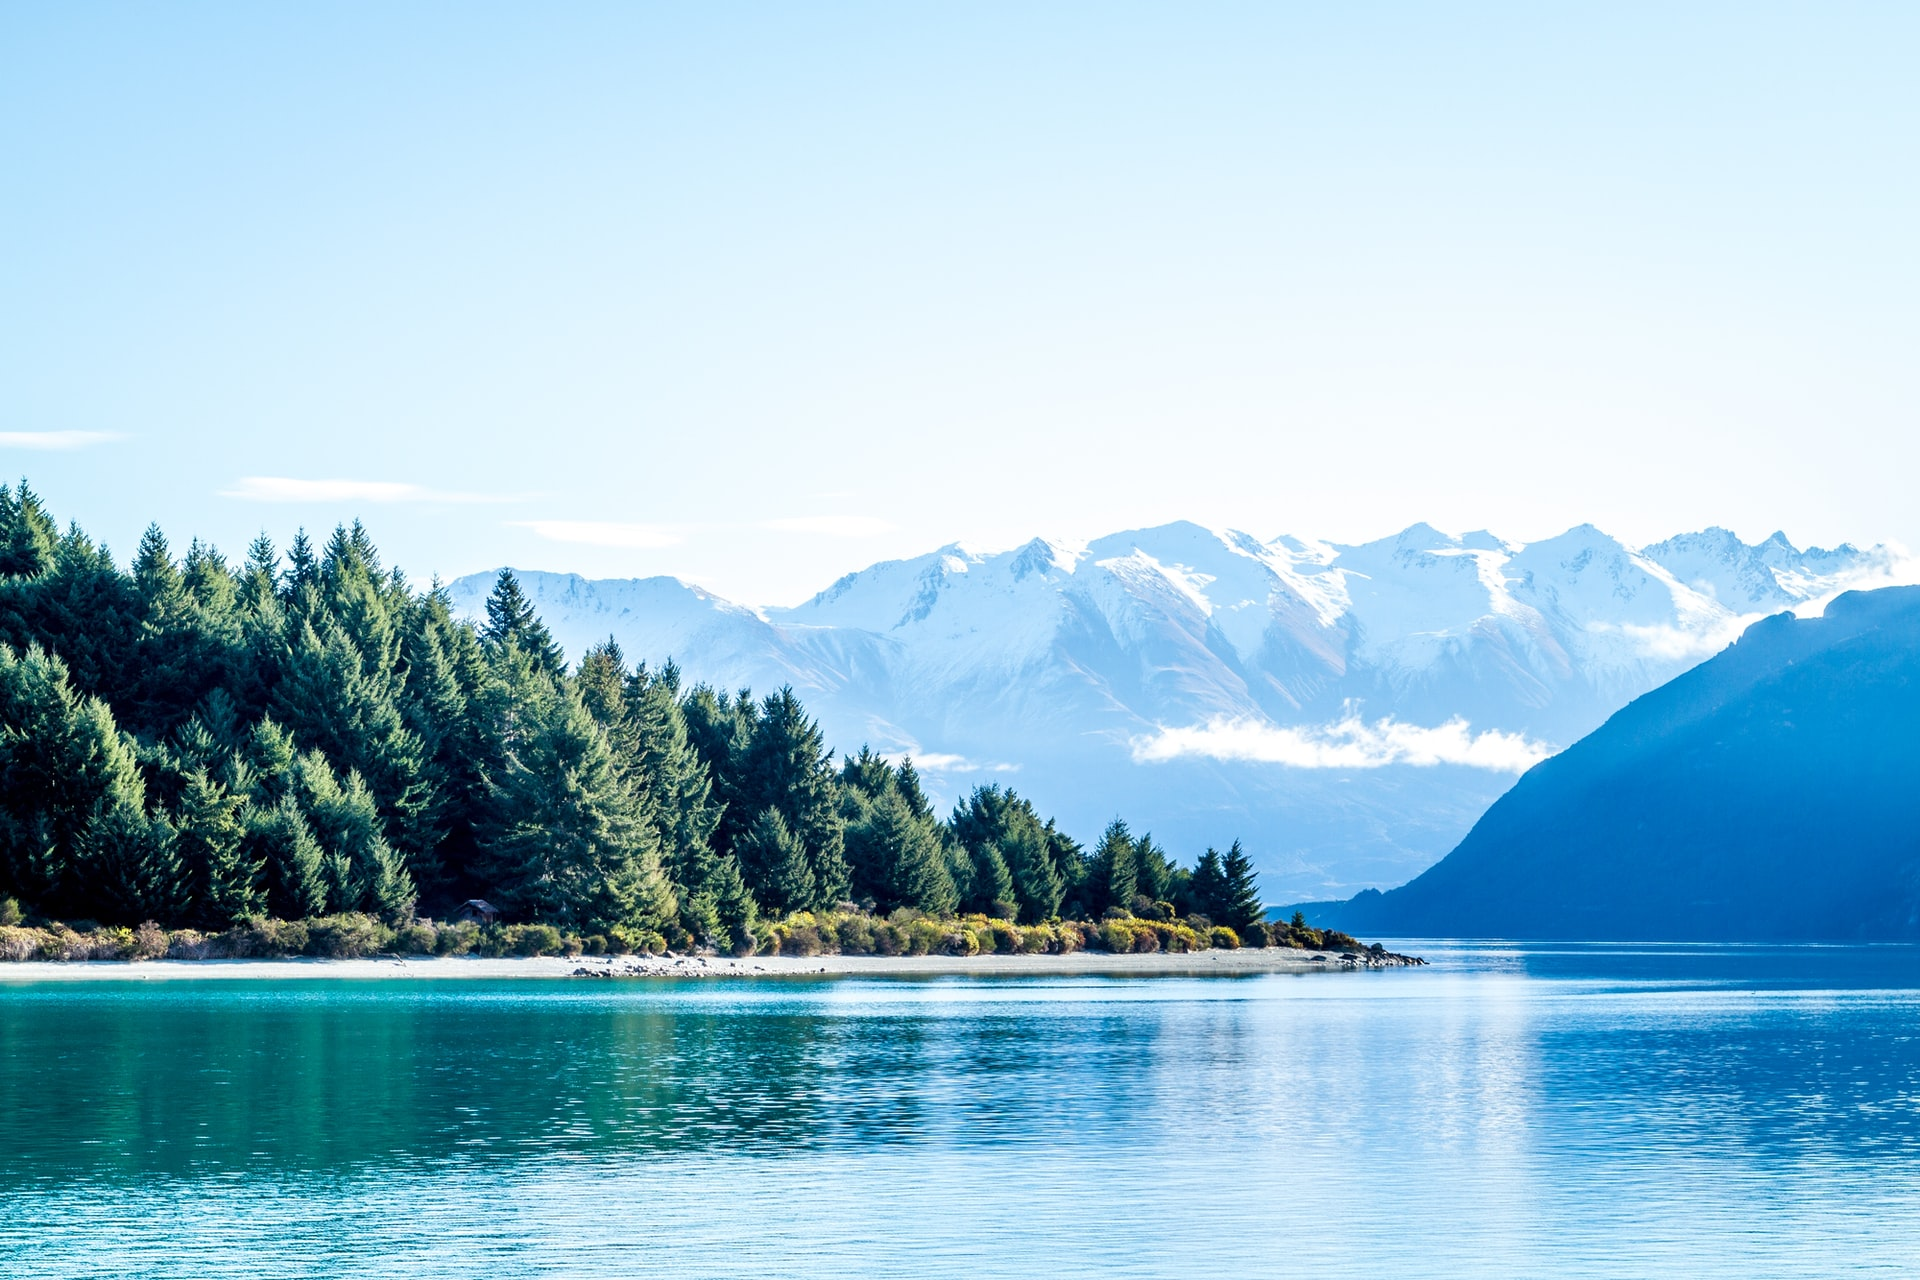
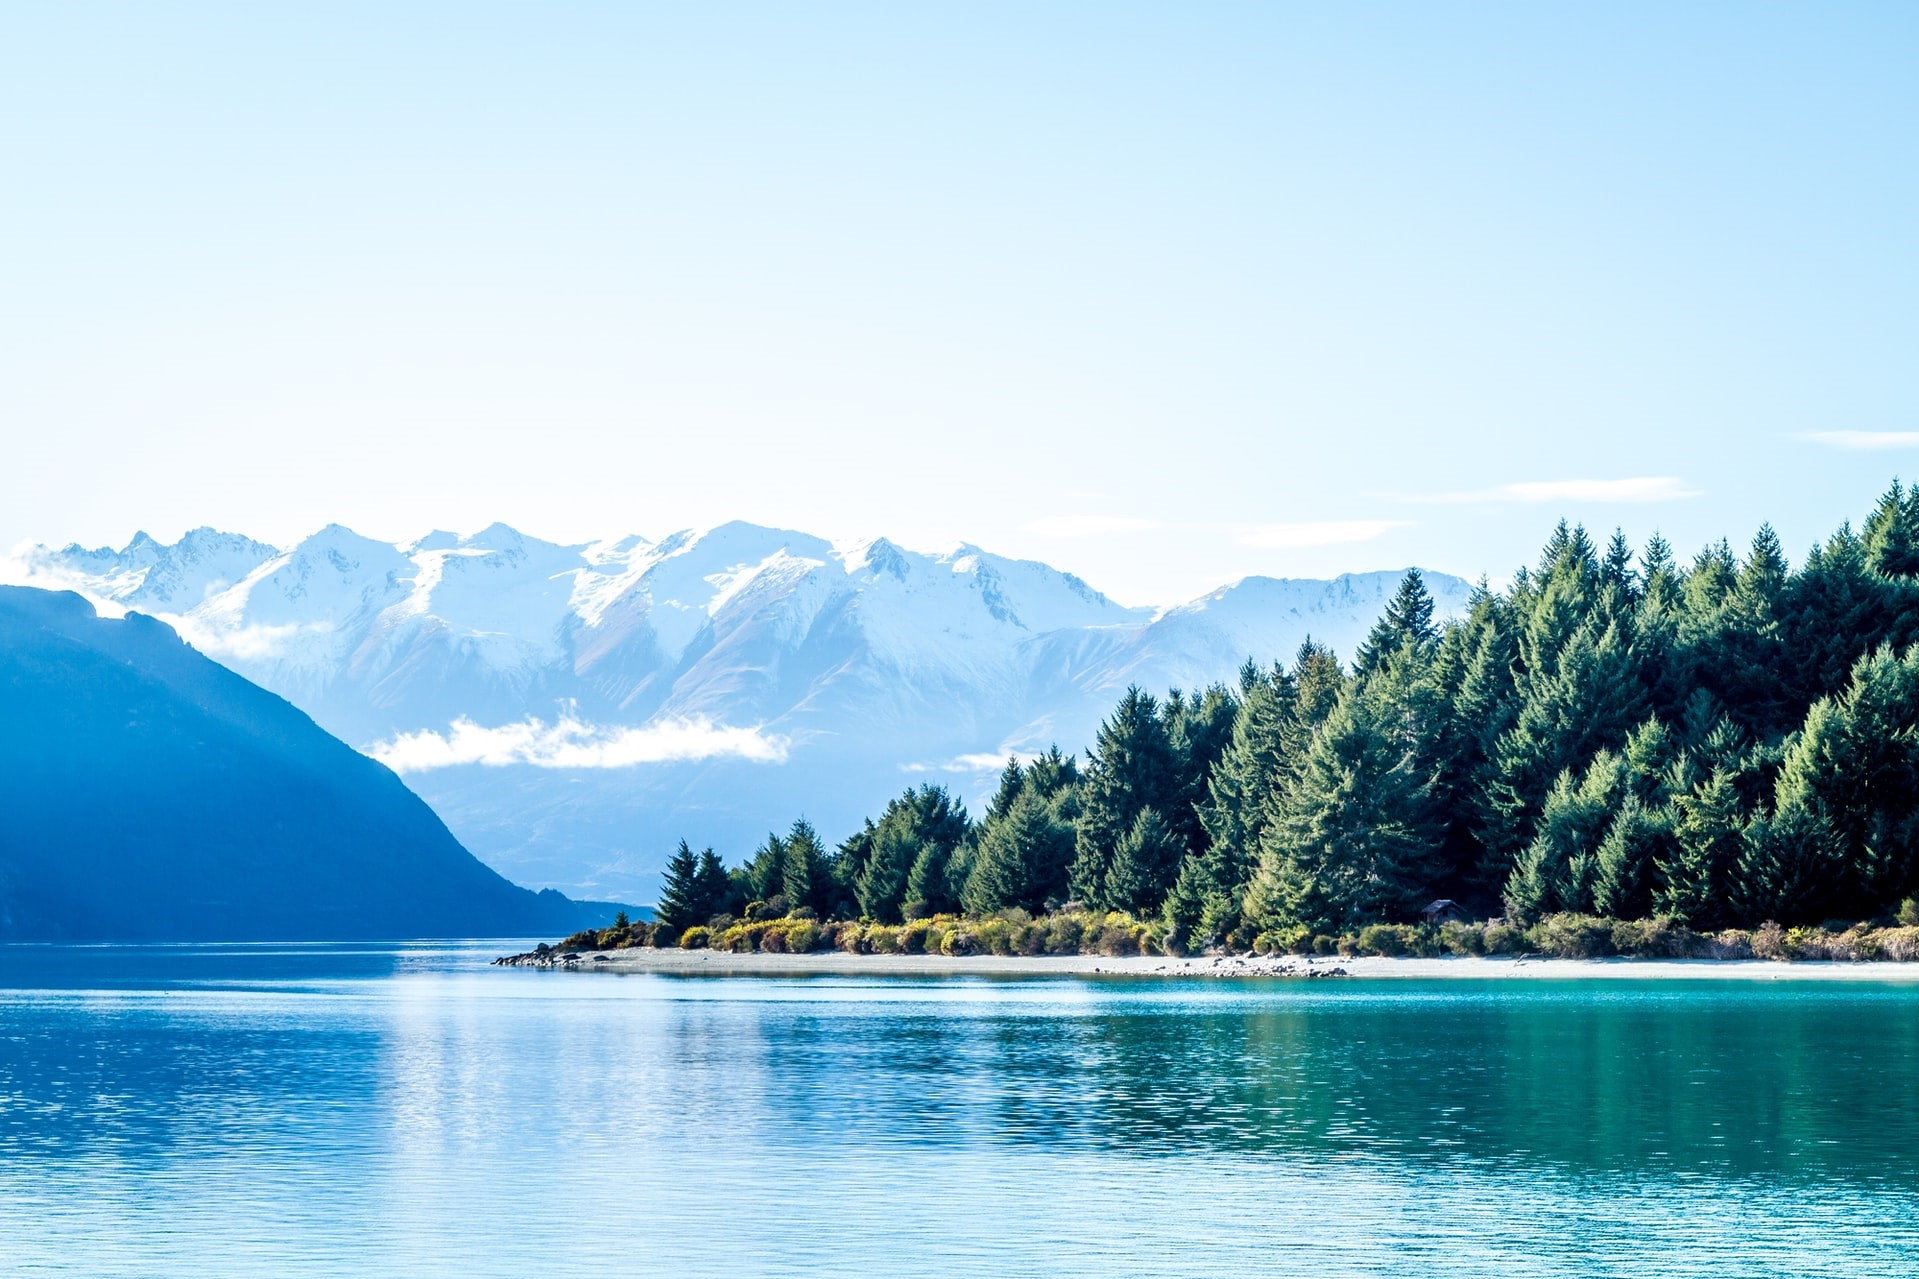
blur home info

diff --git a/css/style.css b/css/style.css
@@ -254,24 +254,27 @@ img {
 .home__container {
   background-image: url(/assets/images/bg-image-w.jpg);
   background-size: cover;
-  background-position: right top;
+  background-position: left top;
+  /* min-height: calc(100vh + var(--header-height)); */
+  min-height: 100vh;
   /* display: flex;
   flex-direction: column-reverse; */
   /* height: calc(100vh - var(--header-height)); */
-  height: 100vh;
 }
 .home__container > * {
   display: flex;
   align-items: center;
-  justify-content: flex-start;
+  justify-content: center;
   flex-direction: column;
 }
 .home__data {
-  padding-top: 25%;
+  margin: 25% 10%;
+  padding: 0.5rem;
+  border-radius: var(--border-rd);
   text-align: center;
   z-index: var(--z-tooltip);
   background-color: rgba(255, 255, 255, 0.08);
-  backdrop-filter: blur(2px);
+  backdrop-filter: blur(10px);
 }
 .home__heading {
   font-size: var(--biggest-font-size);
@@ -282,8 +285,25 @@ img {
   padding: 0 0 1.5rem;
 }
 
-.home__date .button {
-  font-size: var(--normal-font-size);
+.home__button {
+  font-size: var(--small-font-size);
+  background-color: var(--tertiary-color);
+  color: var(--secondary-color);
+  transition: all 0.5s;
+  margin: 5px;
+}
+.home__button span:after {
+  content: "\2192";
+  /* font-size: 20px; */
+  position: absolute;
+  opacity: 0;
+  bottom: 0;
+  right: -20px;
+  transition: 0.5s;
+}
+.home__button:hover span:after {
+  opacity: 1;
+  right: 0;
 }
 /* .home__img img{
   margin: 2rem 0;
@@ -308,26 +328,6 @@ img {
 }
 .button:hover span {
   padding-right: 25px;
-}
-
-.home__button {
-  background-color: var(--tertiary-color);
-  color: var(--secondary-color);
-  transition: all 0.5s;
-  margin: 5px;
-}
-.home__button span:after {
-  content: "\2192";
-  /* font-size: 20px; */
-  position: absolute;
-  opacity: 0;
-  bottom: 0;
-  right: -20px;
-  transition: 0.5s;
-}
-.home__button:hover span:after {
-  opacity: 1;
-  right: 0;
 }
 
 /* .button {
@@ -867,6 +867,9 @@ footer {
     flex-direction: row;
   }
 
+  .home__data{
+    margin: 20% 5%;
+  }
   .home .button {
     font-size: var(--normal-font-size);
   }
